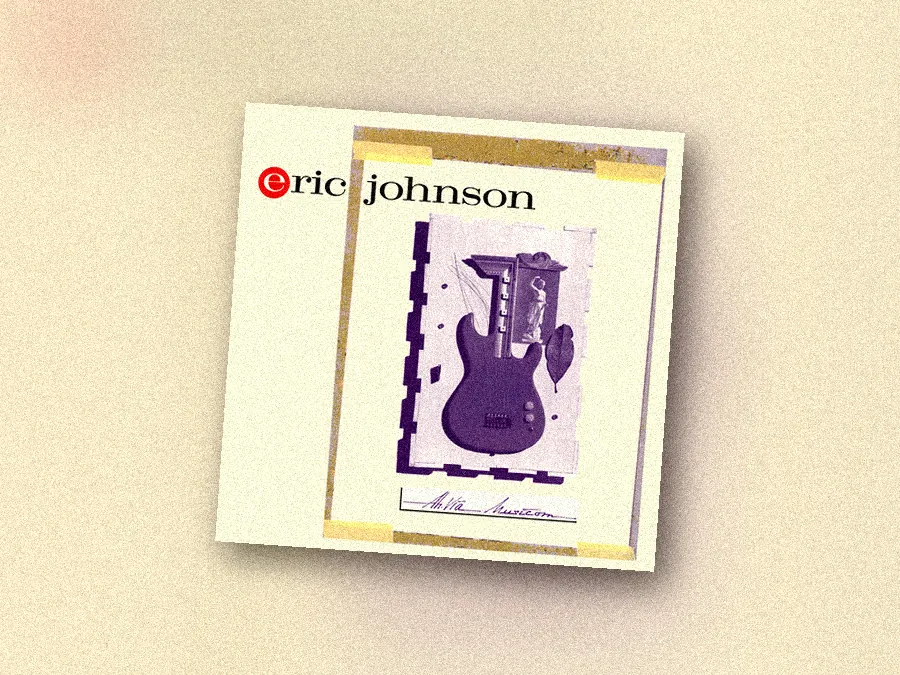
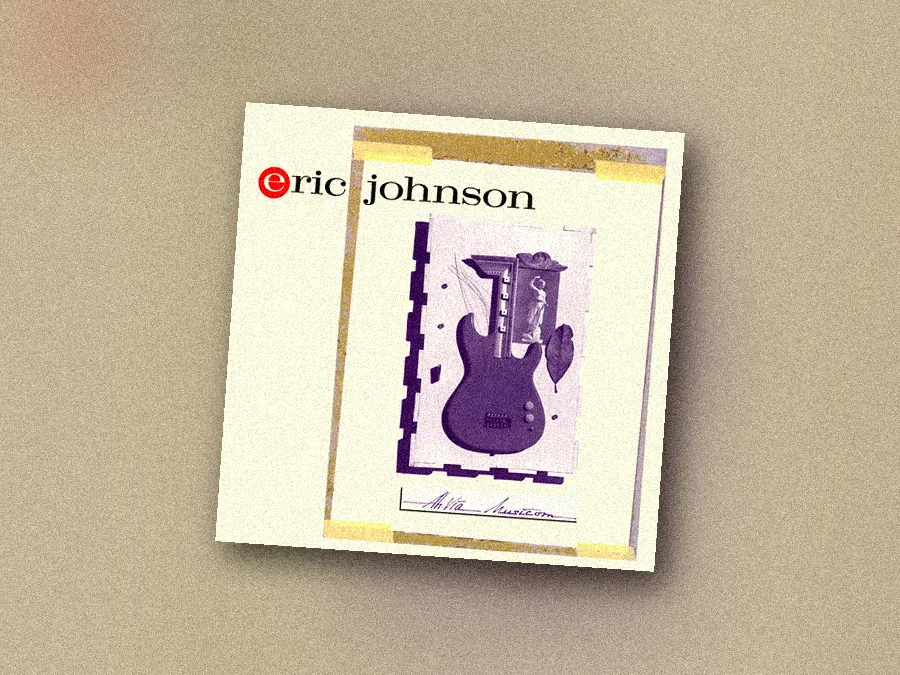
Darker collage backdrop, faint glitch texture back on background

diff --git a/index.html b/index.html
@@ -27,8 +27,12 @@
     font-family: "Pretendard Variable", Pretendard, -apple-system, "Apple SD Gothic Neo", system-ui, sans-serif;
     -webkit-font-smoothing: antialiased; -webkit-tap-highlight-color: transparent; overflow-x: hidden;
   }
-  /* 배경에만 종이 노이즈. 이미지 뒤에 깔려서 포스터·썸네일에는 안 묻음 */
+  /* 배경에만 글리치 결(아주 옅게) + 종이 노이즈. 이미지 뒤에 깔려서 포스터·썸네일에는 안 묻음 */
   body { isolation: isolate; }
+  body::before {
+    content: ""; position: fixed; inset: 0; pointer-events: none; z-index: -1; opacity: .07; mix-blend-mode: soft-light;
+    background: url(assets/glitch.webp) center / cover;
+  }
   body::after {
     content: ""; position: fixed; inset: 0; pointer-events: none; z-index: -1; opacity: .22; mix-blend-mode: overlay;
     background: url(assets/noise.jpeg) 0 0 / 370px auto;
@@ -159,7 +163,7 @@ const ICONS = {
   sticks: '<path d="M18 110L96 16M102 110L24 16"/><circle cx="96" cy="16" r="5"/><circle cx="24" cy="16" r="5"/>',
 };
 // 이미지·CSV를 바꾸면 이 숫자를 올려야 폰 캐시가 새로 받음
-const V = "4";
+const V = "5";
 const ROLES = [["보컬", 3], ["기타", 4], ["베이스", 5], ["드럼", 6], ["키보드", 7], ["그 외", 8]];
 const TAGS = ["t0", "t1", "t2", "t3", "t4", "t5"];
 
